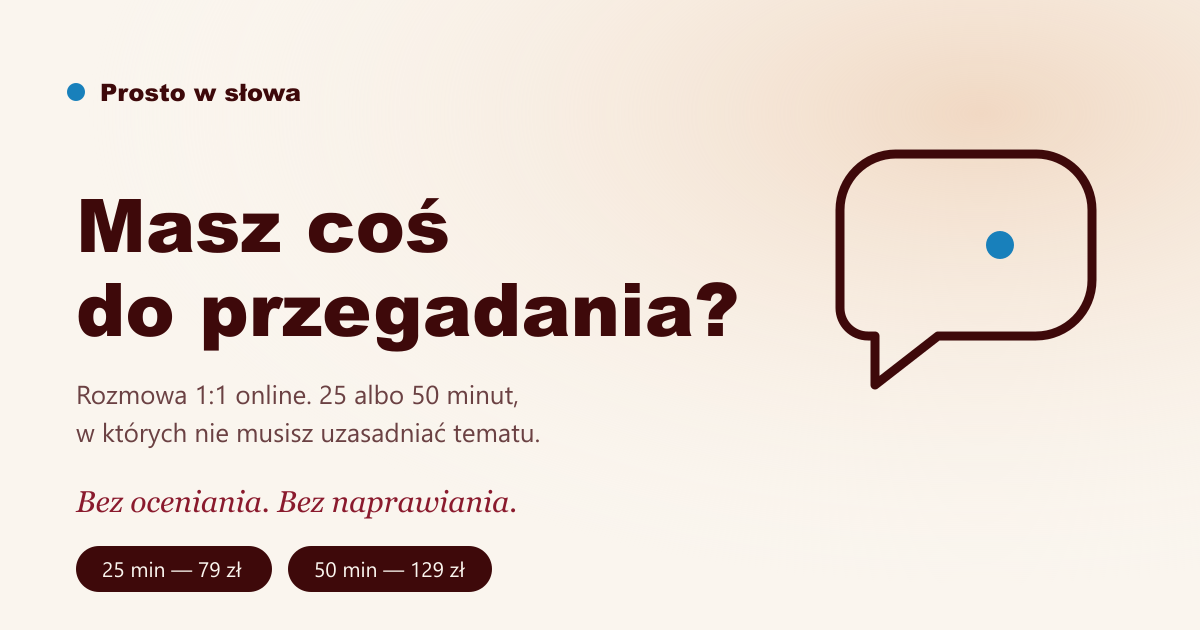
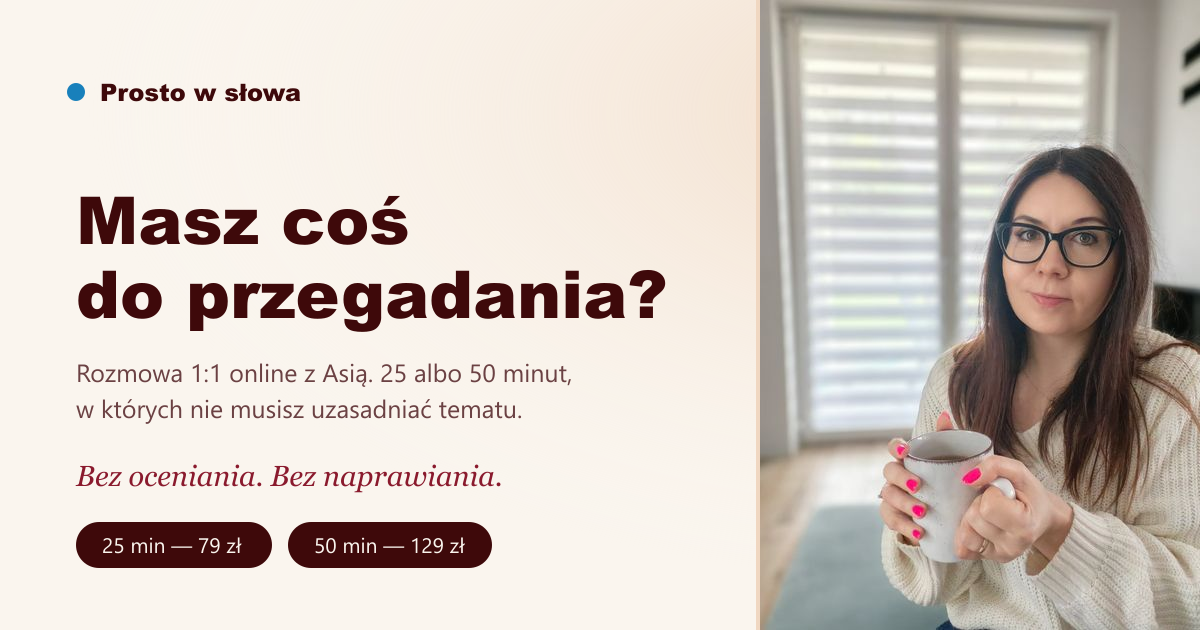
Zdjęcia Asi w hero i „O mnie", materiały robocze do privet/
Zdjęcia
- src/assets/asia-hero.jpg — kadr 4:5, Asia z kubkiem przy oknie; ciepły,
  domowy, pasuje do beżu i brzoskwini z palety
- src/assets/asia-o-mnie.jpg — kadr 1:1, portret z bliska; sekcja „O mnie"
  ma być osobista, więc zdjęcie jest bliżej niż w hero
- oba idą przez astro:assets, więc build robi z nich responsywne webp
  (hero 420/640/900, „o mnie" 360/560/760)
- w hero doszedł odręczny dopisek jako naklejka wpięta w róg zdjęcia,
  w „O mnie" cytat stoi pod zdjęciem zamiast wypełniać pustą ramkę
- og-image korzysta teraz z tego samego kadru co hero — ruch z Instagrama
  jest kluczowy, więc podgląd linku pokazuje twarz, nie samą typografię

Porządki
- wszystkie materiały robocze i wszystko od klienta trafiło do privet/:
  brief, prompt.txt, README.md oraz surowe zdjęcia w privet/FOTO/
- .gitignore: jedna reguła `privet/` zamiast listy wzorców; CLAUDE.md
  ignorowany osobno, bo musi zostać w katalogu głównym
- do repozytorium trafiają wyłącznie wybrane, wykadrowane zdjęcia,
  nigdy surowe pliki od klienta

Claude-Session: https://claude.ai/code/session_01DAsmSQejSpmU31ENNyhFtE

diff --git a/src/data/content.ts b/src/data/content.ts
@@ -32,9 +32,9 @@ export const HERO = {
     { icon: 'wallet', label: '79 zł albo 129 zł' },
     { icon: 'camera', label: 'Kamera opcjonalna' },
   ],
-  /* TODO: naturalne zdjęcie Asi do hero (brief, sekcja 21). Do tego czasu
-     miejsce zajmuje ramka z inicjałem — nie wstawiamy zdjęć stockowych. */
-  portraitAlt: 'Asia — osoba prowadząca rozmowy',
+  portraitAlt:
+    'Asia siedzi w jasnym pokoju przy oknie i trzyma w dłoniach kubek, patrzy w obiektyw',
+  portraitCaption: 'prowadzę te rozmowy',
 } as const;
 
 /* ── Może znasz ten moment ────────────────────────────────────────────── */
@@ -156,6 +156,8 @@ export const ABOUT = {
     'Możesz mówić serio, chaotycznie, z humorem albo zacząć od „nie wiem, jak to powiedzieć". To też jest początek.',
   ],
   note: 'Naprawdę nie musisz się przygotowywać.',
+  imageAlt: 'Asia patrzy w obiektyw — portret z bliska, w domowym wnętrzu',
+  quote: 'Czasem nie chodzi o radę. Chodzi o to, żeby powiedzieć to na głos.',
 } as const;
 
 /* ── Cennik ───────────────────────────────────────────────────────────── */
